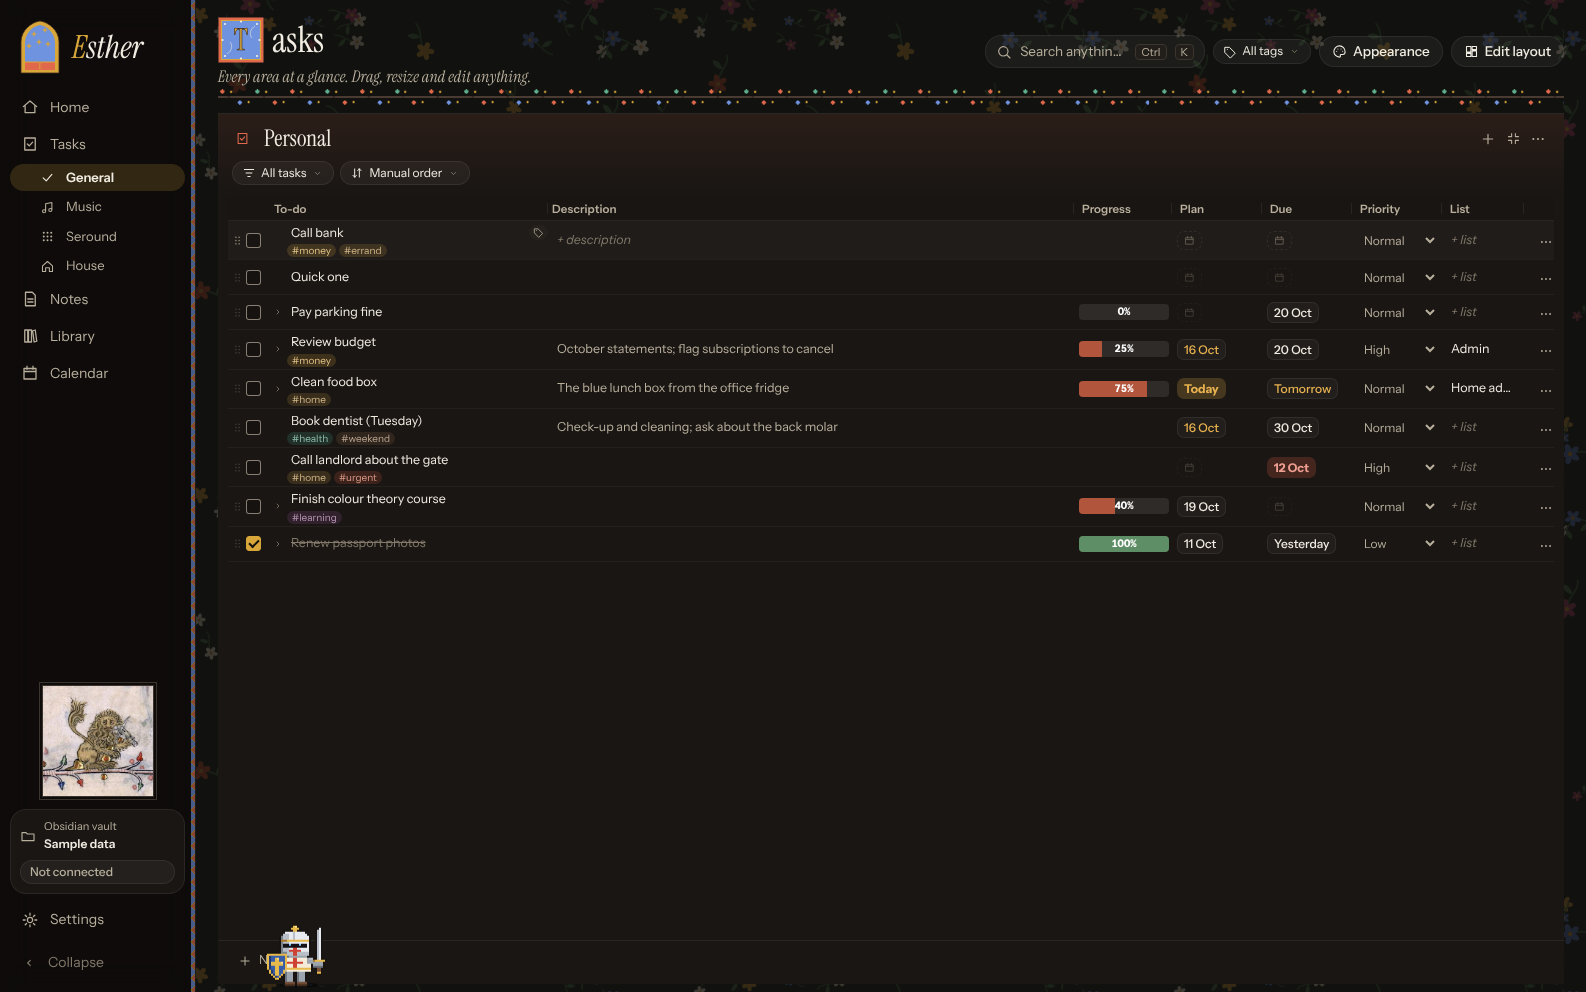
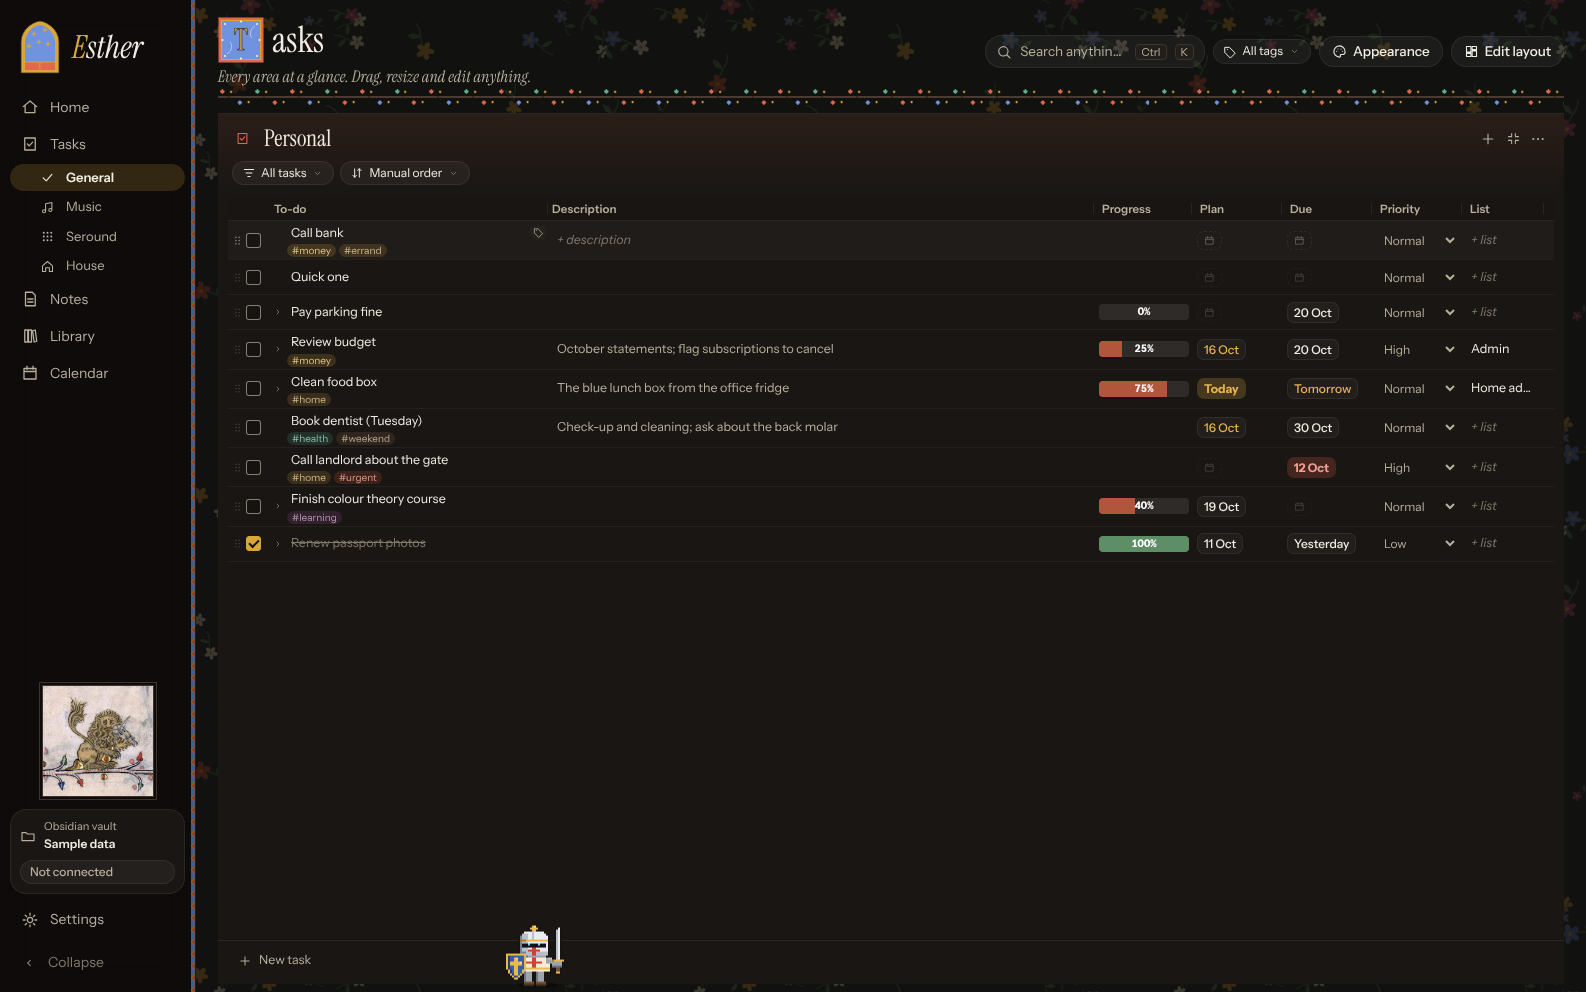
Row actions on right-click; bill options at the front of the row
Claude-Session: https://claude.ai/code/session_016WKLQPuGqaCrfQHNoqNZZi

diff --git a/frankk-app/src/panels/HousePanel.tsx b/frankk-app/src/panels/HousePanel.tsx
@@ -72,27 +72,8 @@ function BillRow({ o, cols }: { o: Occurrence; cols: Columns }) {
   return (
     <div className={`task bill${o.paid ? ' is-done' : ''}`} data-bill={`${o.bill.id}:${o.month}`}>
       <div className="trow" style={{ gridTemplateColumns: cols.template }} role="row">
-        <span />
-        <label className="check no-drag">
-          <input type="checkbox" checked={o.paid} aria-label={`${o.paid ? 'Mark unpaid' : 'Mark paid'}: ${label}`}
-            onChange={() => { dispatch({ type: 'bill/pay', billId: o.bill.id, month: o.month, paid: !o.paid }); say(`${label} marked ${o.paid ? 'unpaid' : 'paid'}. Other months are unchanged.`); }} />
-          <span className="box" />
-        </label>
-        {cols.visible.map((c) => {
-          if (c.id === 'title') return (
-            <div key={c.id} className="cell title-cell col" data-col={c.id}>
-              <span className="bill-name"><Editable className="task-title" label="Bill name" value={o.bill.title} onSave={(v) => dispatch({ type: 'bill/patch', billId: o.bill.id, patch: { title: v } })} />{o.month !== monthKey(today) && <em className="muted">· {monthName(o.month)}</em>}</span>
-              <span className="sub" title={`Monthly · reminder ${o.bill.reminderDays === 0 ? 'on the day' : `${o.bill.reminderDays} days before`}`}><Icon name="bell" size={10} />{o.bill.reminderDays === 0 ? 'on the day' : `${o.bill.reminderDays}d before`} · monthly</span>
-            </div>
-          );
-          if (c.id === 'progress') return <div key={c.id} className="cell" data-col={c.id}><span className={`pill ${status}`}>{o.paid ? '✓ Paid' : o.missed ? 'Missed' : 'Unpaid'}</span></div>;
-          if (c.id === 'notes') return <div key={c.id} className="cell" data-col={c.id}><Editable className="cell-desc" label={`Payment note for ${label}`} value={o.note ?? ''} allowEmpty placeholder="+ payment note" onSave={(v) => dispatch({ type: 'bill/update', billId: o.bill.id, patch: { note: { month: o.month, text: v.trim() } } })} /></div>;
-          if (c.id === 'due') return <div key={c.id} className="cell" data-col={c.id}><span className={`date-static${o.missed ? ' overdue' : ''}`} title={shortDate(o.due, today)}>{relLabel(o.due, today)}</span></div>;
-          return <div key={c.id} className="cell" data-col={c.id} />;
-        })}
-        <span />
-        <Popover align="right" trigger={({ toggle, ref }) => (
-          <button ref={ref} className="icon-btn tiny" aria-label={`Bill options for ${label}`} aria-haspopup="menu" onClick={toggle}><Icon name="more" size={14} /></button>
+        <Popover trigger={({ toggle, ref }) => (
+          <button ref={ref} className="icon-btn tiny row-opts" aria-label={`Bill options for ${label}`} title="Bill settings" aria-haspopup="menu" onClick={toggle}><Icon name="settings" size={12} /></button>
         )}>
           {(close) => (
             <div className="pop-form">
@@ -115,6 +96,25 @@ function BillRow({ o, cols }: { o: Occurrence; cols: Columns }) {
             </div>
           )}
         </Popover>
+        <label className="check no-drag">
+          <input type="checkbox" checked={o.paid} aria-label={`${o.paid ? 'Mark unpaid' : 'Mark paid'}: ${label}`}
+            onChange={() => { dispatch({ type: 'bill/pay', billId: o.bill.id, month: o.month, paid: !o.paid }); say(`${label} marked ${o.paid ? 'unpaid' : 'paid'}. Other months are unchanged.`); }} />
+          <span className="box" />
+        </label>
+        {cols.visible.map((c) => {
+          if (c.id === 'title') return (
+            <div key={c.id} className="cell title-cell col" data-col={c.id}>
+              <span className="bill-name"><Editable className="task-title" label="Bill name" value={o.bill.title} onSave={(v) => dispatch({ type: 'bill/patch', billId: o.bill.id, patch: { title: v } })} />{o.month !== monthKey(today) && <em className="muted">· {monthName(o.month)}</em>}</span>
+              <span className="sub" title={`Monthly · reminder ${o.bill.reminderDays === 0 ? 'on the day' : `${o.bill.reminderDays} days before`}`}><Icon name="bell" size={10} />{o.bill.reminderDays === 0 ? 'on the day' : `${o.bill.reminderDays}d before`} · monthly</span>
+            </div>
+          );
+          if (c.id === 'progress') return <div key={c.id} className="cell" data-col={c.id}><span className={`pill ${status}`}>{o.paid ? '✓ Paid' : o.missed ? 'Missed' : 'Unpaid'}</span></div>;
+          if (c.id === 'notes') return <div key={c.id} className="cell" data-col={c.id}><Editable className="cell-desc" label={`Payment note for ${label}`} value={o.note ?? ''} allowEmpty placeholder="+ payment note" onSave={(v) => dispatch({ type: 'bill/update', billId: o.bill.id, patch: { note: { month: o.month, text: v.trim() } } })} /></div>;
+          if (c.id === 'due') return <div key={c.id} className="cell" data-col={c.id}><span className={`date-static${o.missed ? ' overdue' : ''}`} title={shortDate(o.due, today)}>{relLabel(o.due, today)}</span></div>;
+          return <div key={c.id} className="cell" data-col={c.id} />;
+        })}
+        <span />
+        <span />
       </div>
     </div>
   );

diff --git a/frankk-app/src/components/TaskTable.tsx b/frankk-app/src/components/TaskTable.tsx
@@ -5,7 +5,6 @@ import { CSS } from '@dnd-kit/utilities';
 import { Icon } from './Icons';
 import { DateCell } from './DateCell';
 import { ProgressCell } from './ProgressBar';
-import { Popover } from './Popover';
 import { Editable, MiniSelect } from './Editable';
 import { TagChips, TagPicker } from './Tags';
 import { SortableList } from './SortableList';
@@ -207,8 +206,11 @@ function TaskRow({ task, cols, manual, open, onToggleOpen, onNudge, first, last 
       <div className="trow" style={{ gridTemplateColumns: cols.template }} role="row" onContextMenu={(e) => menu(e, [
         { label: task.done ? 'Reopen' : 'Complete', icon: 'check', onClick: () => dispatch({ type: 'task/toggle', id: task.id }) },
         { label: 'Open details', icon: 'pencil', onClick: () => openTask(task.id) },
+        ...(task.mode === 'progress' ? [{ label: open ? 'Hide steps' : 'Show steps', icon: 'steps' as const, onClick: onToggleOpen }] : []),
         { label: task.mode === 'simple' ? 'Turn into checklist with progress' : 'Turn into simple to-do', icon: task.mode === 'simple' ? 'steps' : 'check', onClick: () => update({ mode: task.mode === 'simple' ? 'progress' : 'simple' }) },
         { label: 'Open in Obsidian', icon: 'external', onClick: () => openNote(task.notePath) },
+        { label: 'Move up', icon: 'up', sep: true, disabled: !manual || first, onClick: () => onNudge(task.id, -1) },
+        { label: 'Move down', icon: 'down', disabled: !manual || last, onClick: () => onNudge(task.id, 1) },
         { label: 'Delete task', icon: 'trash', danger: true, sep: true, onClick: () => { dispatch({ type: 'task/remove', id: task.id }); say(`Deleted “${task.title}”.`, true); } },
       ])}>
         <button className={`row-grip${manual ? '' : ' off'}`} aria-label={`Reorder ${task.title}. Space to pick up, arrows to move, or Alt+Up and Alt+Down`}
@@ -227,23 +229,7 @@ function TaskRow({ task, cols, manual, open, onToggleOpen, onNudge, first, last 
         </label>
         {cols.visible.map((c) => cell(c.id))}
         <span />
-        <Popover align="right" trigger={({ toggle, ref }) => (
-          <button ref={ref} className="icon-btn tiny" aria-label={`Actions for ${task.title}`} aria-haspopup="menu" onClick={toggle}><Icon name="more" size={14} /></button>
-        )}>
-          {(close) => (
-            <>
-              <button role="menuitem" onClick={() => { close(); openTask(task.id); }}>Open details</button>
-              {task.mode === 'progress' && <button role="menuitem" onClick={() => { close(); onToggleOpen(); }}>{open ? 'Hide steps' : 'Show steps'}</button>}
-              <button role="menuitem" onClick={() => { close(); update({ mode: task.mode === 'simple' ? 'progress' : 'simple' }); }}>
-                <Icon name={task.mode === 'simple' ? 'steps' : 'check'} size={13} /> {task.mode === 'simple' ? 'Turn into checklist with progress' : 'Turn into simple to-do'}
-              </button>
-              <button role="menuitem" onClick={() => { close(); openNote(task.notePath); }}><Icon name="external" size={13} /> Open in Obsidian</button>
-              <button role="menuitem" disabled={!manual || first} onClick={() => { close(); onNudge(task.id, -1); }}><Icon name="up" size={13} /> Move up</button>
-              <button role="menuitem" disabled={!manual || last} onClick={() => { close(); onNudge(task.id, 1); }}><Icon name="down" size={13} /> Move down</button>
-              {!manual && <p className="menu-note">Moving needs “Manual order” sort.</p>}
-            </>
-          )}
-        </Popover>
+        <span />
       </div>
       {open && task.mode === 'progress' && <Steps task={task} />}
     </div>

diff --git a/frankk-app/src/styles.css b/frankk-app/src/styles.css
@@ -1674,3 +1674,11 @@ html.overlay-scrollbars *::-webkit-scrollbar { display: none !important; width: 
 .st-done-mark { color: var(--ok); font-weight: 700; }
 /* Step bar line: each link blends from one stage's rank colour into the next (green → blue → violet → amber → red → gold) */
 .stepper li .bar b, .stepper li.done .bar b, .stepper li.active .bar b { background: linear-gradient(90deg, var(--tone), var(--tone-next, var(--tone))) !important; background-size: var(--bar-span, 100%) 100% !important; }
+/* Bill settings sit at the front of the row, quiet until you hover it */
+.row-opts { width: 14px; height: 20px; color: var(--faint); opacity: 0; }
+.task:hover .row-opts, .row-opts:focus-visible, .row-opts[aria-expanded='true'] { opacity: 1; }
+/* rows scrolled into view stop below the sticky column header */
+.panel-body .task, .panel-body .group-label, .panel-body .group-head { scroll-margin-top: 36px; }
+.row-opts { position: relative; z-index: 3; }
+.task.bill .check input { inset: 0 !important; left: 0 !important; }
+.row-opts { width: 14px !important; min-width: 0 !important; padding: 0 !important; overflow: hidden; }

diff --git a/frankk-app/src/hooks/useColumns.ts b/frankk-app/src/hooks/useColumns.ts
@@ -14,7 +14,8 @@ export interface ColDef {
 
 interface Saved { widths: Record<string, number>; hidden: string[]; order?: string[] }
 
-const GRIP = 14, CHECK = 20, MENU = 24, GAP = 2;
+// The trailing column used to hold a ⋯ menu; row actions now live on right-click, so it's just a hairline gutter.
+const GRIP = 14, CHECK = 20, MENU = 4, GAP = 2;
 
 /**
  * Every column (including the name) has its own fixed pixel width that stays exactly where you drag it.
